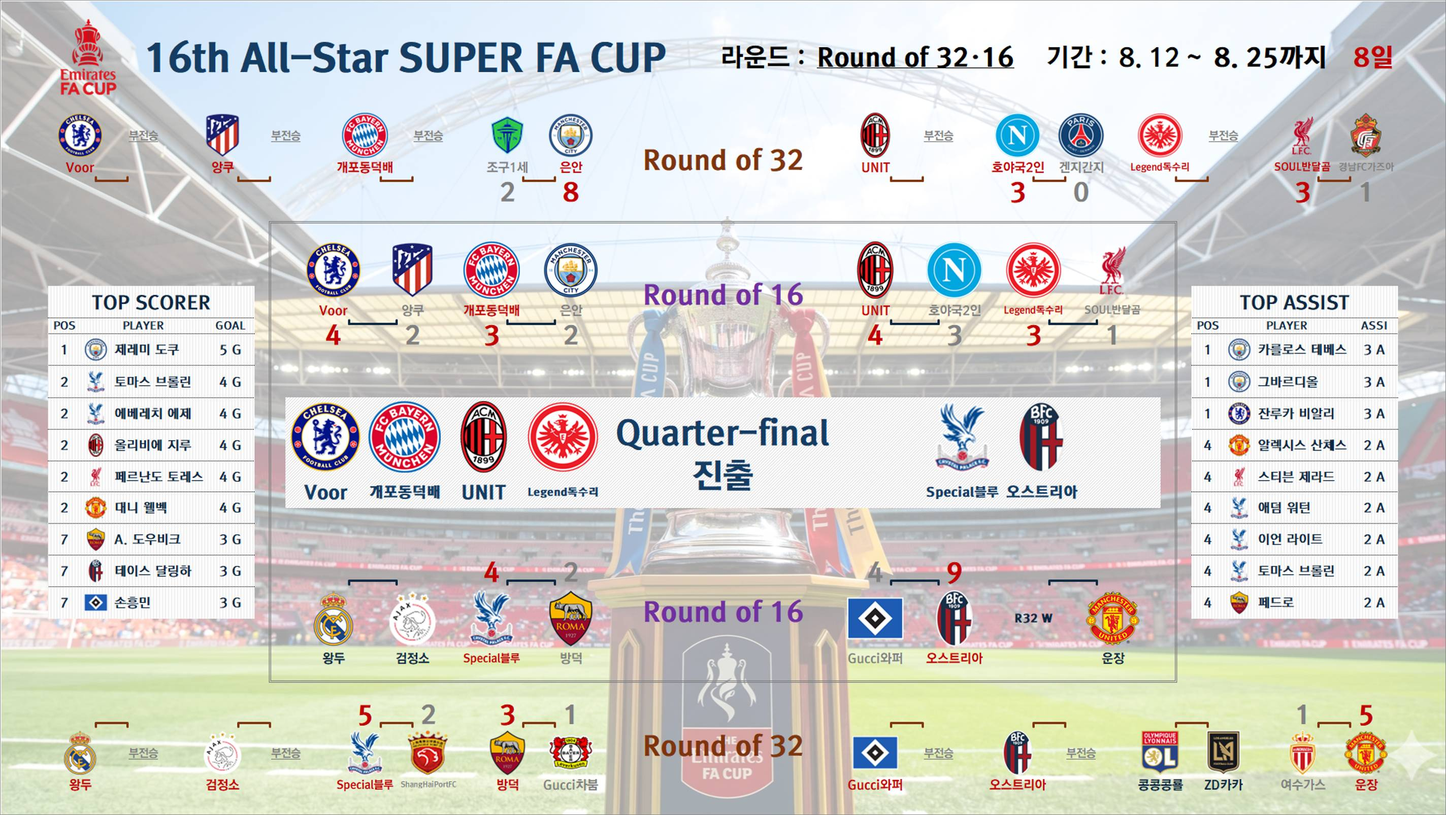
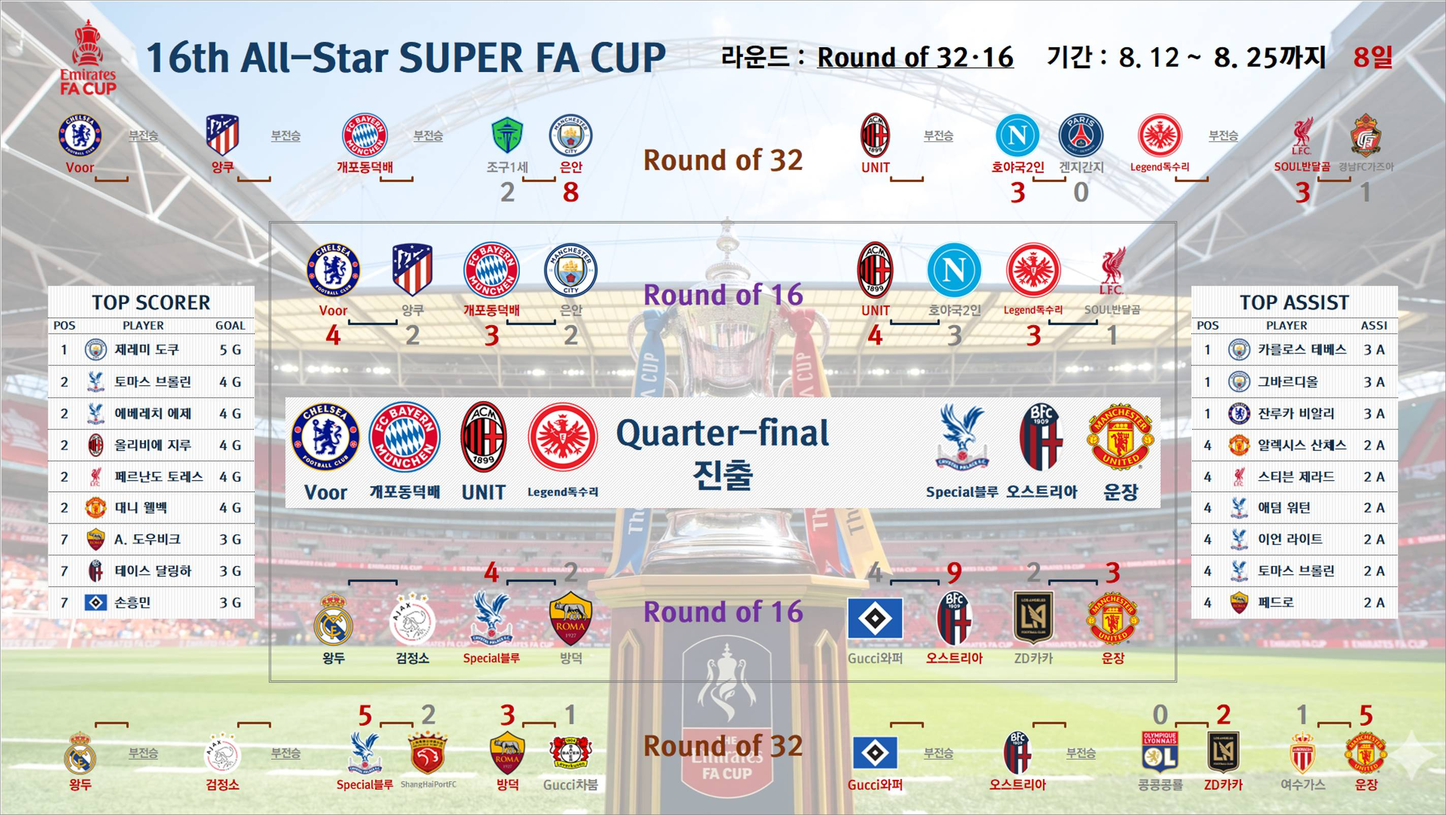
Optimize: 21:01:06

diff --git a/index.html b/index.html
@@ -71,10 +71,10 @@
         <div class="card"><h2>🥇 1부리그</h2><img src="https://i.ibb.co/tpLzwxxL/255439309b8f.jpg" alt="1부 리그" loading="lazy"></div>
         <div class="card"><h2>🥈 2부리그</h2><img src="https://i.ibb.co/VYvh3KMy/031eb354fedc.jpg" alt="2부 리그" loading="lazy"></div>
         <div class="card"><h2>🥉 3부리그</h2><img src="https://i.ibb.co/HDKtWjHN/5c8a5fa1d7d8.jpg" alt="3부 리그" loading="lazy"></div>
-        <div class="card"><h2>🏅 FA컵 32·16강</h2><img src="https://i.ibb.co/JjBHr3wq/af4f39f50fc3.jpg" alt="FA컵" loading="lazy"></div>
-        <div class="card"><h2>🏅 FA컵 8강·4강·결승</h2><img src="https://i.ibb.co/39zSGGc9/62132c8be3fe.jpg" alt="FA컵" loading="lazy"></div>
+        <div class="card"><h2>🏅 FA컵 32·16강</h2><img src="https://i.ibb.co/8DLJ0bNq/26d5ac641885.jpg" alt="FA컵" loading="lazy"></div>
+        <div class="card"><h2>🏅 FA컵 8강·4강·결승</h2><img src="https://i.ibb.co/RkDNXdT0/5936b53f9dfd.jpg" alt="FA컵" loading="lazy"></div>
         <div class="card"><h2>🌟 UCL GROUP</h2><img src="https://i.ibb.co/1fsbSbrt/c8519f642a14.jpg" alt="UCL 조별" loading="lazy"></div>
-        <div class="card"><h2>⚽ GOLDEN BOOT</h2><img src="https://i.ibb.co/B5XCTwDM/cdb2035ca09b.jpg" alt="득점왕" loading="lazy"></div>
+        <div class="card"><h2>⚽ GOLDEN BOOT</h2><img src="https://i.ibb.co/Q7TrXhkM/35fc4525d2cd.jpg" alt="득점왕" loading="lazy"></div>
         <div class="card"><h2>🎯 PLAYMAKER</h2><img src="https://i.ibb.co/kgdvbFhH/1bc06d4ac7df.jpg" alt="플레이메이커" loading="lazy"></div>
         <div class="card"><h2>🏆 UCL 토너먼트</h2><img src="https://i.ibb.co/GvkkJqyP/c7cae45958f8.jpg" alt="UCL 토너" loading="lazy"></div>
         <div class="card"><h2>🎖 UEL 토너먼트</h2><img src="https://i.ibb.co/xSMDpJWB/da8521f5354b.jpg" alt="UEL 토너" loading="lazy"></div>
